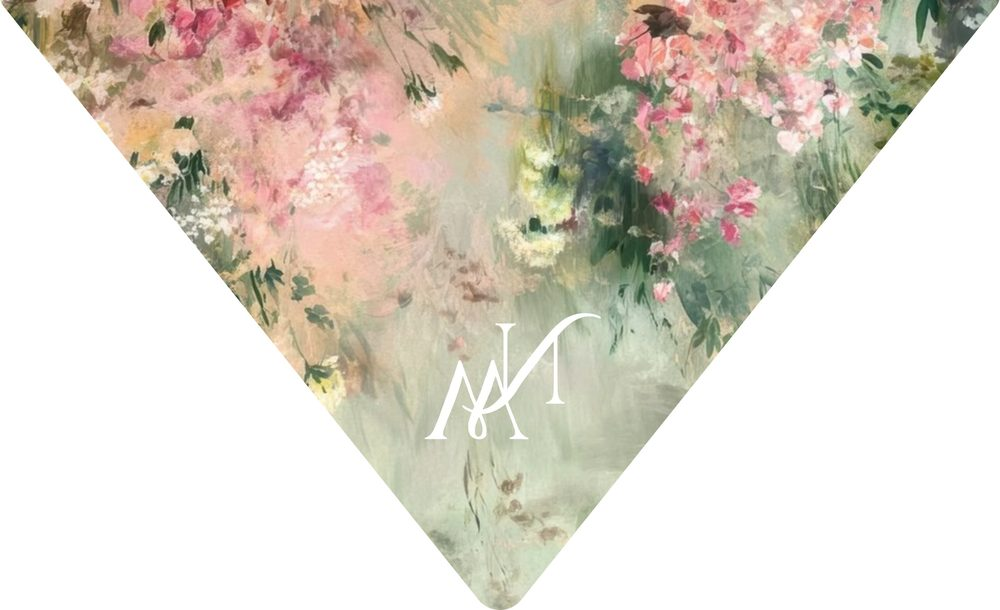
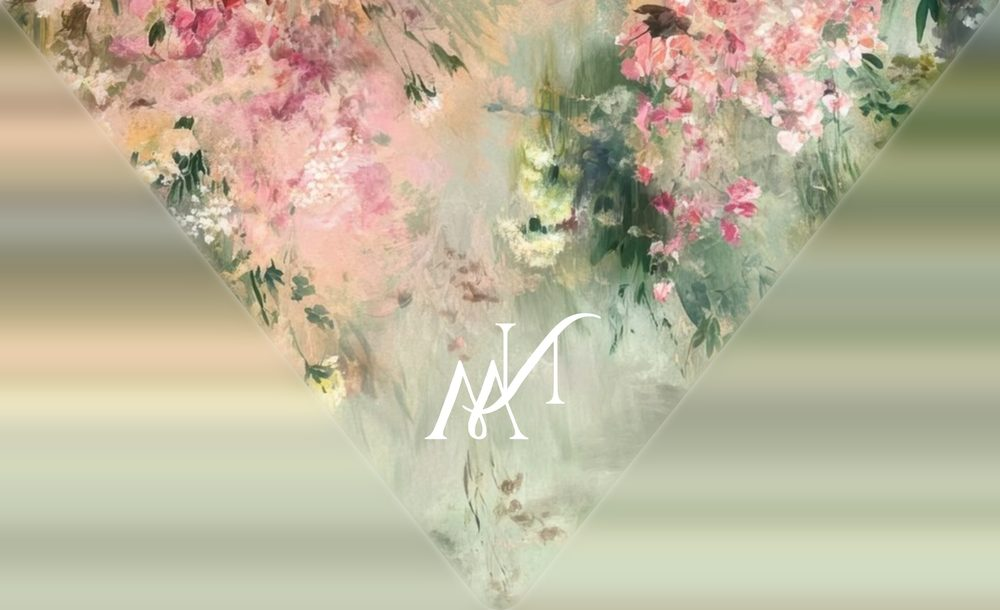
Liner fills the whole open flap
The opened flap showed a white rim: the liner art from the PDF has white
paper outside its house shape, and the lace photo's back peeked through.
The liner images now extend the painting softly past the shape's edge
(mask built from the outline, so the white WN stays sharp), the liner
face runs to the flap's outer edge, and the lace back face is hidden.

Claude-Session: https://claude.ai/code/session_01DUdYM8obKhpKK1xEQz7N9u

diff --git a/assets/css/style.css b/assets/css/style.css
@@ -634,3 +634,6 @@ footer p, footer .tag { font-family: var(--f-mono); }
   clip-path: polygon(0 100%, 100% 100%, 100% 93.6%, 51.1% 3.3%, 0 93.6%); }
 .env.open .flap { z-index: 0; }
 .env .card { z-index: 1; }
+/* liner fills the whole open flap: hide the lace photo's back completely and run the liner to the flap's outer edge */
+.env .flap .flap-out, .env .flap .flap-out img, .env .flap .flap-out source { backface-visibility: hidden; -webkit-backface-visibility: hidden; transform: translateZ(0); }
+.env .flap .flap-in { transform: rotateX(180deg) translateZ(1px); clip-path: polygon(-1% 101%, 101% 101%, 101% 92.4%, 51.1% 1.2%, -1% 92.4%); background-size: 102% 102%; background-position: 50% 100%; }
